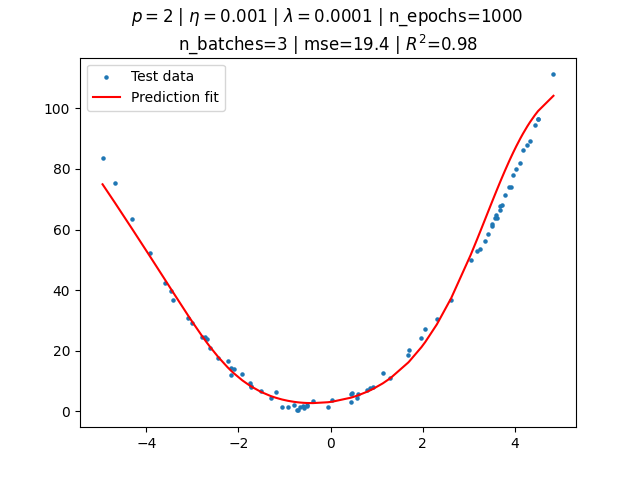
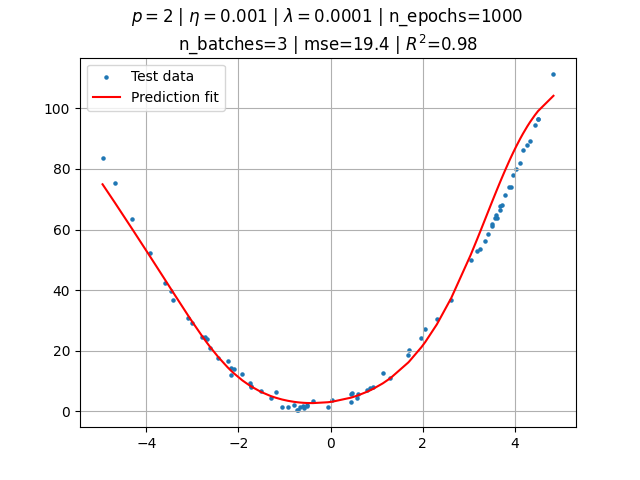
added grid to plots

diff --git a/project2/source-code/mortens-code/part_b&c_regression.py b/project2/source-code/mortens-code/part_b&c_regression.py
@@ -14,7 +14,6 @@ from sklearn.metrics import r2_score, mean_squared_error
 n = 100  # no. data points
 noise_std = 1  # standard deviation of noise
 xmax = 5  # max x value
-
 lmbda = 0.0001  # shrinkage  hyperparameter lambda
 eta = 0.001  # learning rate
 n_batches = 3  # no. minibatches for sgd
@@ -99,6 +98,7 @@ def plot_pred(filename: str = ""):
     plt.title(f"$p={degree}$ | $\eta={eta}$ | $\lambda={lmbda}$ | {n_epochs=} "
               f"\n{n_batches=} | mse={test_mse:.1f} | $R^2$={test_r2:.2f}")
     plt.legend()
+    plt.grid(True)
 
     if filename:
         plt.savefig(filename)
@@ -129,6 +129,7 @@ def plot_pred_scikit(filename: str = ""):
     plt.title(f"$p={degree}$ | $\eta={eta}$ | $\lambda={lmbda}$ | {n_epochs=} "
               f"\n{n_batches=} | mse={test_mse:.1f} | $R^2$={test_r2:.2f}")
     plt.legend()
+    plt.grid(True)
 
     if filename:
         plt.savefig(filename)
@@ -202,8 +203,8 @@ def plot_mse_r2_grid(filename_mse: str = "", filename_r2: str = ""):
         plt.show()
 
 
-# plot_pred("../../results/figures/part_b_pred.png")
-# plot_pred_scikit("../../results/figures/part_b_pred_scikit.png")
+plot_pred("../../results/figures/part_b_pred.png")
+plot_pred_scikit("../../results/figures/part_b_pred_scikit.png")
 # plot_mse_r2_grid(
 #         "../../results/figures/part_b_mse_grid.png",
 #         "../../results/figures/part_b_r2_grid.png"
